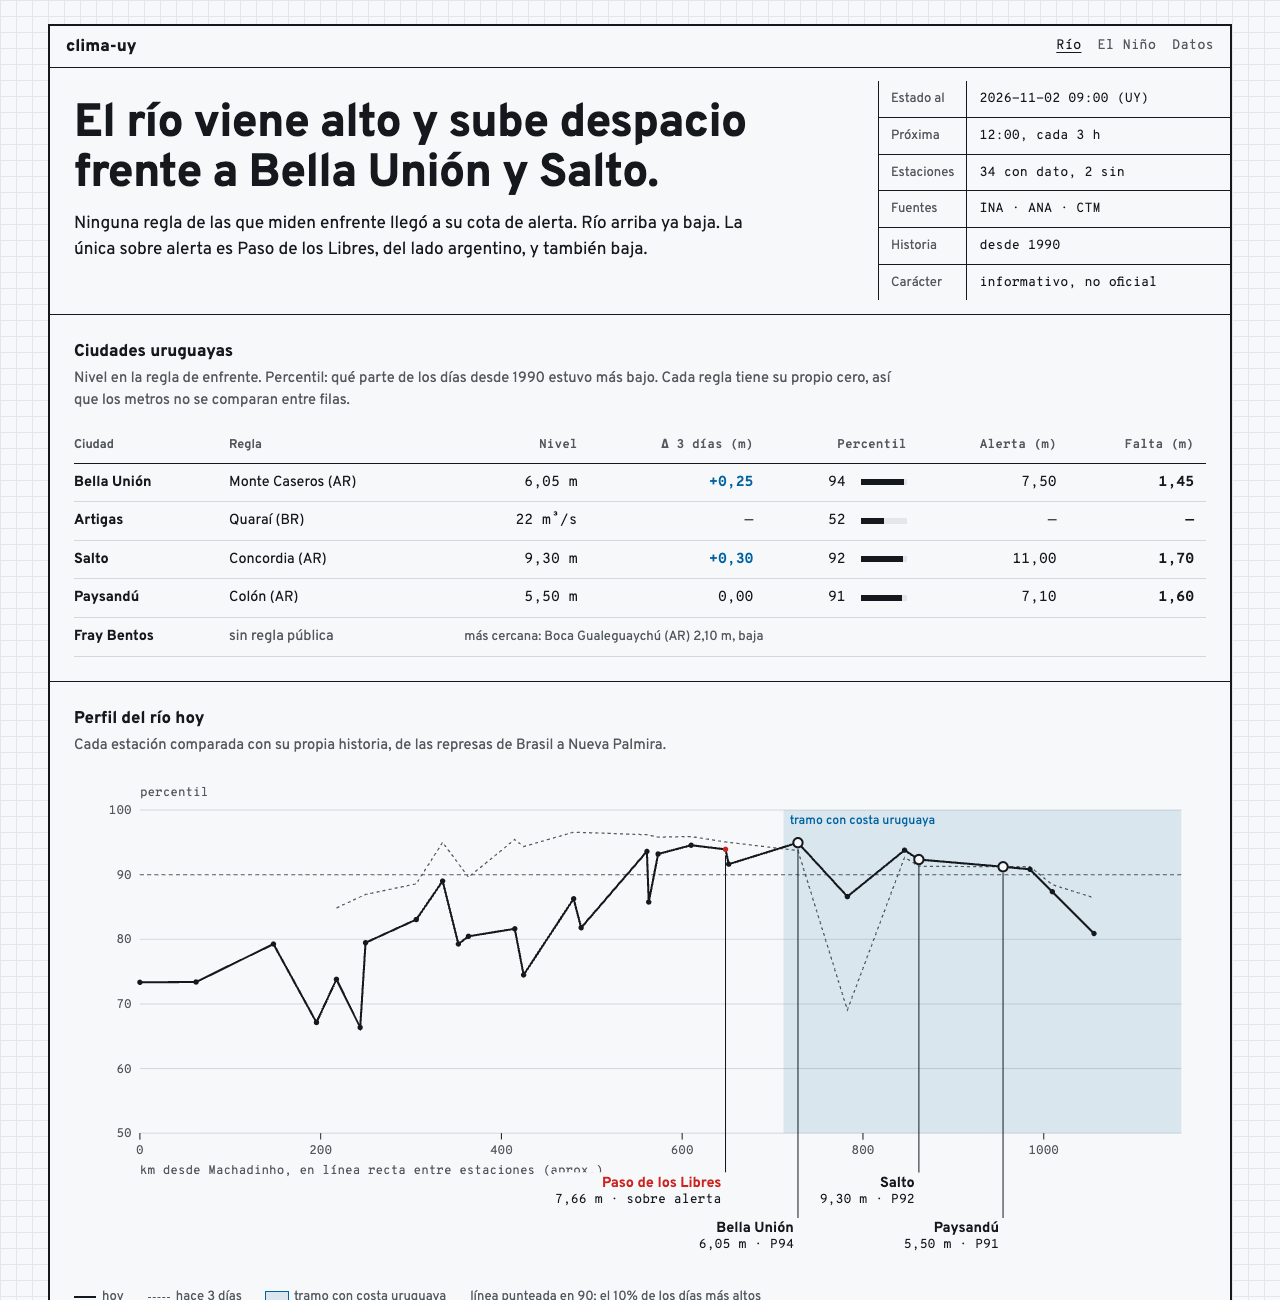
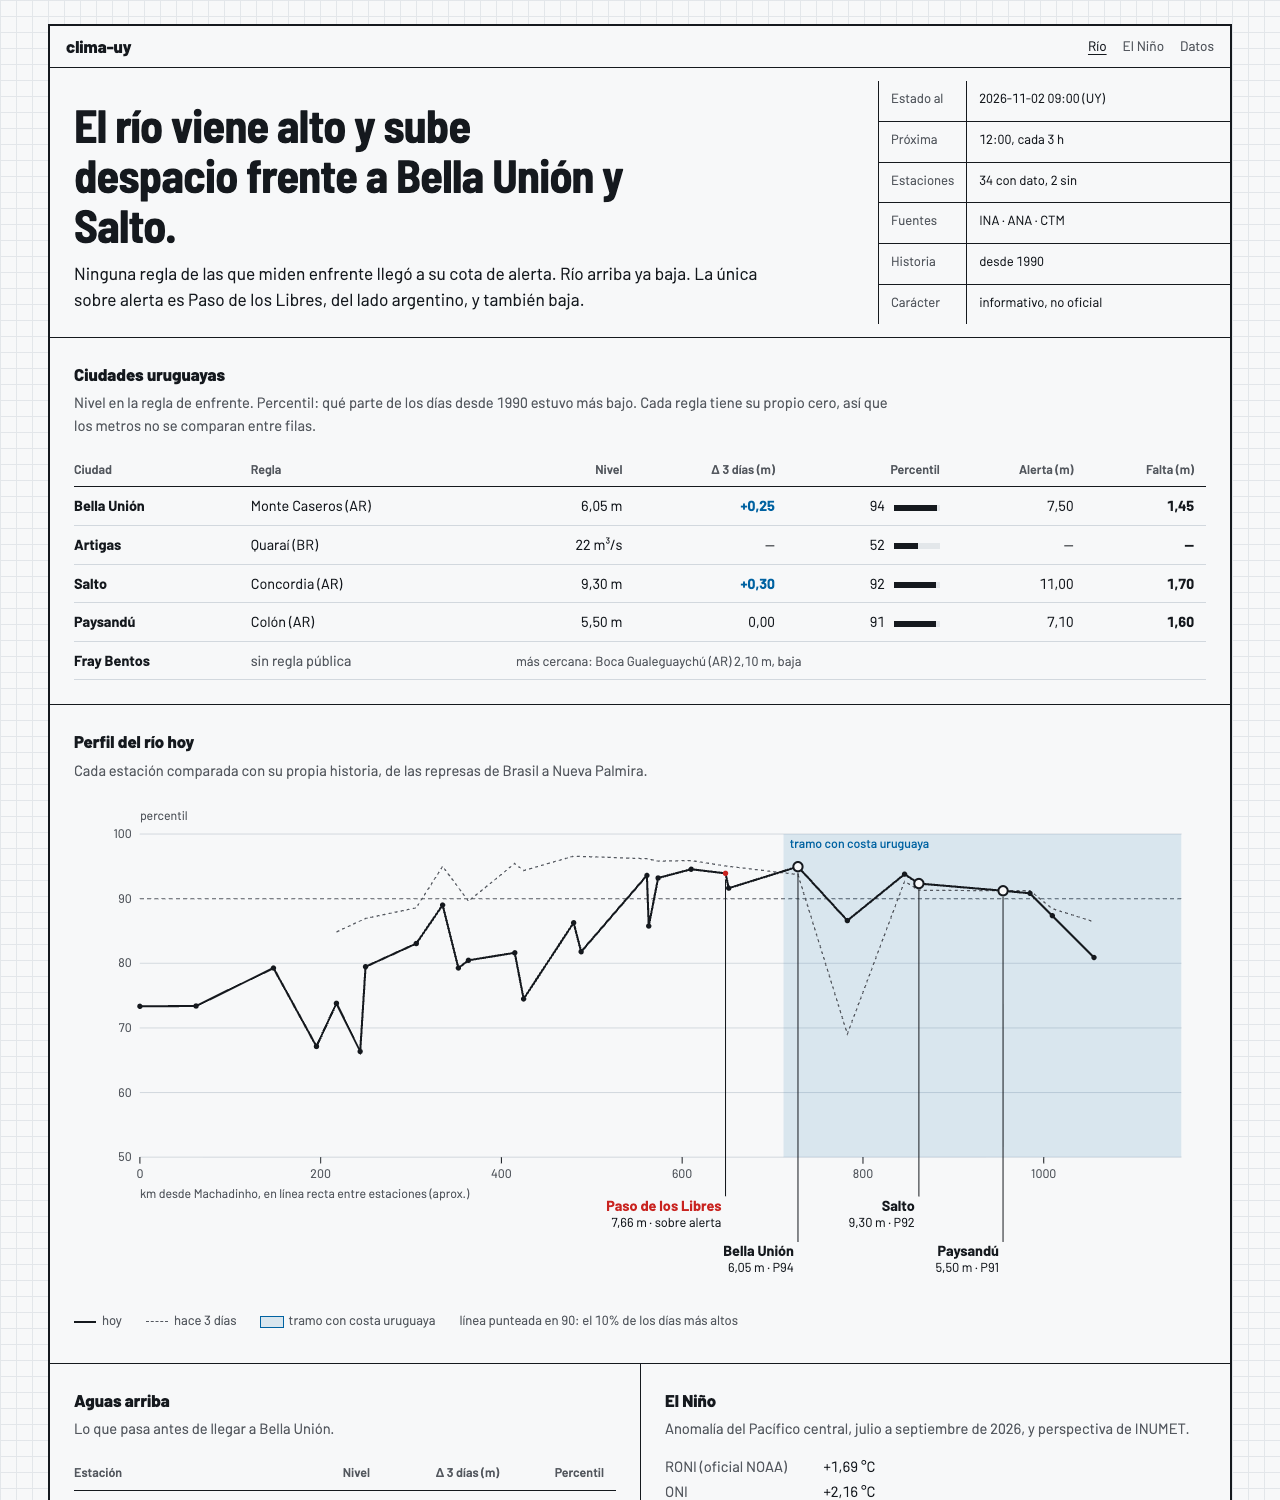
fix(site): home meta description, h1 weight and Barlow mockup render
The meta description puts Artigas on the Cuareim. The sheet h1 asks for
700, a weight that ships (design.md). docs/design/plano-mockup-1280.png
is re-rendered from the mockup HTML in Barlow at 1280x1500.

diff --git a/climauy/site/static/v2/css/site.css b/climauy/site/static/v2/css/site.css
@@ -50,7 +50,7 @@ nav a{margin-left:var(--s4);text-decoration:none;color:var(--ink-2)}
 nav a[aria-current]{color:var(--ink);text-decoration:underline}
 .cab{display:grid;grid-template-columns:minmax(0,1fr) minmax(0,22rem);border-bottom:1px solid var(--line)}
 .resp{padding:var(--s6) var(--s5) var(--s5)}
-.resp h1{font-family:"Barlow Semi Condensed",var(--sans);font-weight:750;font-size:clamp(1.9rem,3.6vw,2.9rem);line-height:1.08;letter-spacing:-.015em;margin:0 0 var(--s3);max-width:24ch}
+.resp h1{font-family:"Barlow Semi Condensed",var(--sans);font-weight:700;font-size:clamp(1.9rem,3.6vw,2.9rem);line-height:1.08;letter-spacing:-.015em;margin:0 0 var(--s3);max-width:24ch}
 .resp p{margin:0;max-width:44rem;font-size:1.08rem;color:var(--ink)}
 .cajetin{border-left:1px solid var(--line);display:grid;grid-template-columns:auto minmax(0,1fr);font-size:.82rem;align-content:stretch}
 .cajetin dt,.cajetin dd{margin:0;padding:var(--s2) var(--s3);border-bottom:1px solid var(--line)}

diff --git a/tests/test_build.py b/tests/test_build.py
@@ -768,6 +768,18 @@ def test_home_city_rows(home):
     assert fray[2] == ["sin regla pública", "más cercana: Boca Gualeguaychú (AR) 2,10 m, baja"]
 
 
+def test_home_meta_description_puts_artigas_on_the_cuareim(home):
+    html, _ = home
+    desc = re.search(r'<meta name="description" content="([^"]*)">', html).group(1)
+    assert "frente a Bella Unión, Salto, Paysandú y Fray Bentos, y del Cuareim en Artigas" in htmllib.unescape(desc)
+
+
+def test_sheet_h1_uses_a_shipped_weight():
+    css = (SITE_STATIC / "v2/css/site.css").read_text(encoding="utf-8")
+    h1 = re.search(r"\.resp h1\{([^}]*)\}", css).group(1)
+    assert "font-weight:700" in h1  # Barlow Semi Condensed ships 600 and 700 (design.md)
+
+
 def test_home_percentile_baseline_allows_later_starts(home):
     # Several stations start after 1990 (Alvear, La Cruz, Yapeyú in 2006): the definition says so.
     html, _ = home
